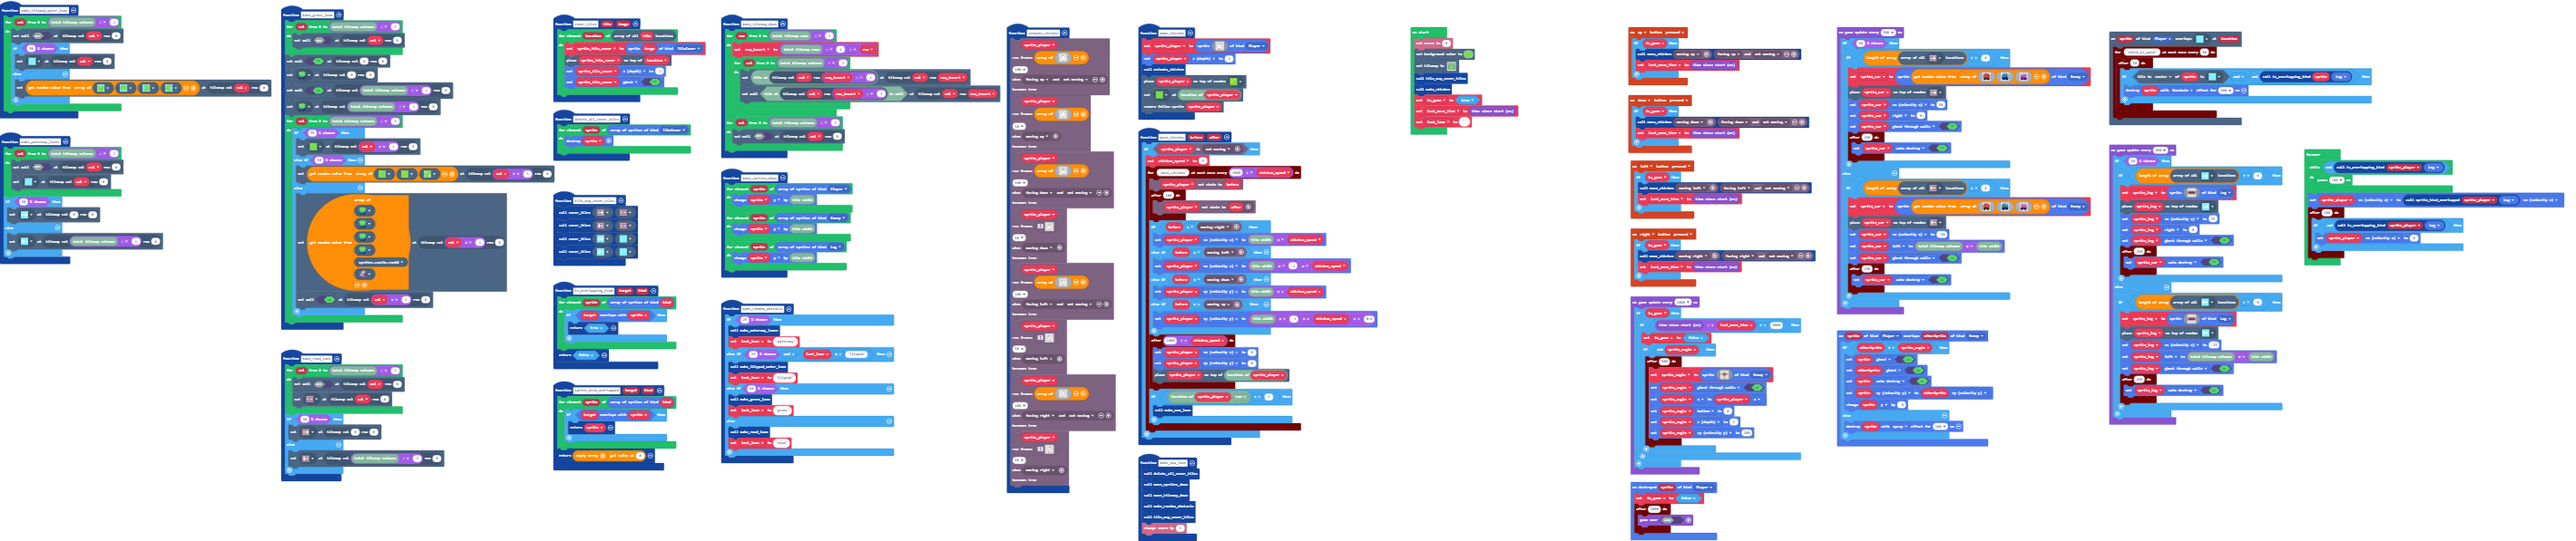
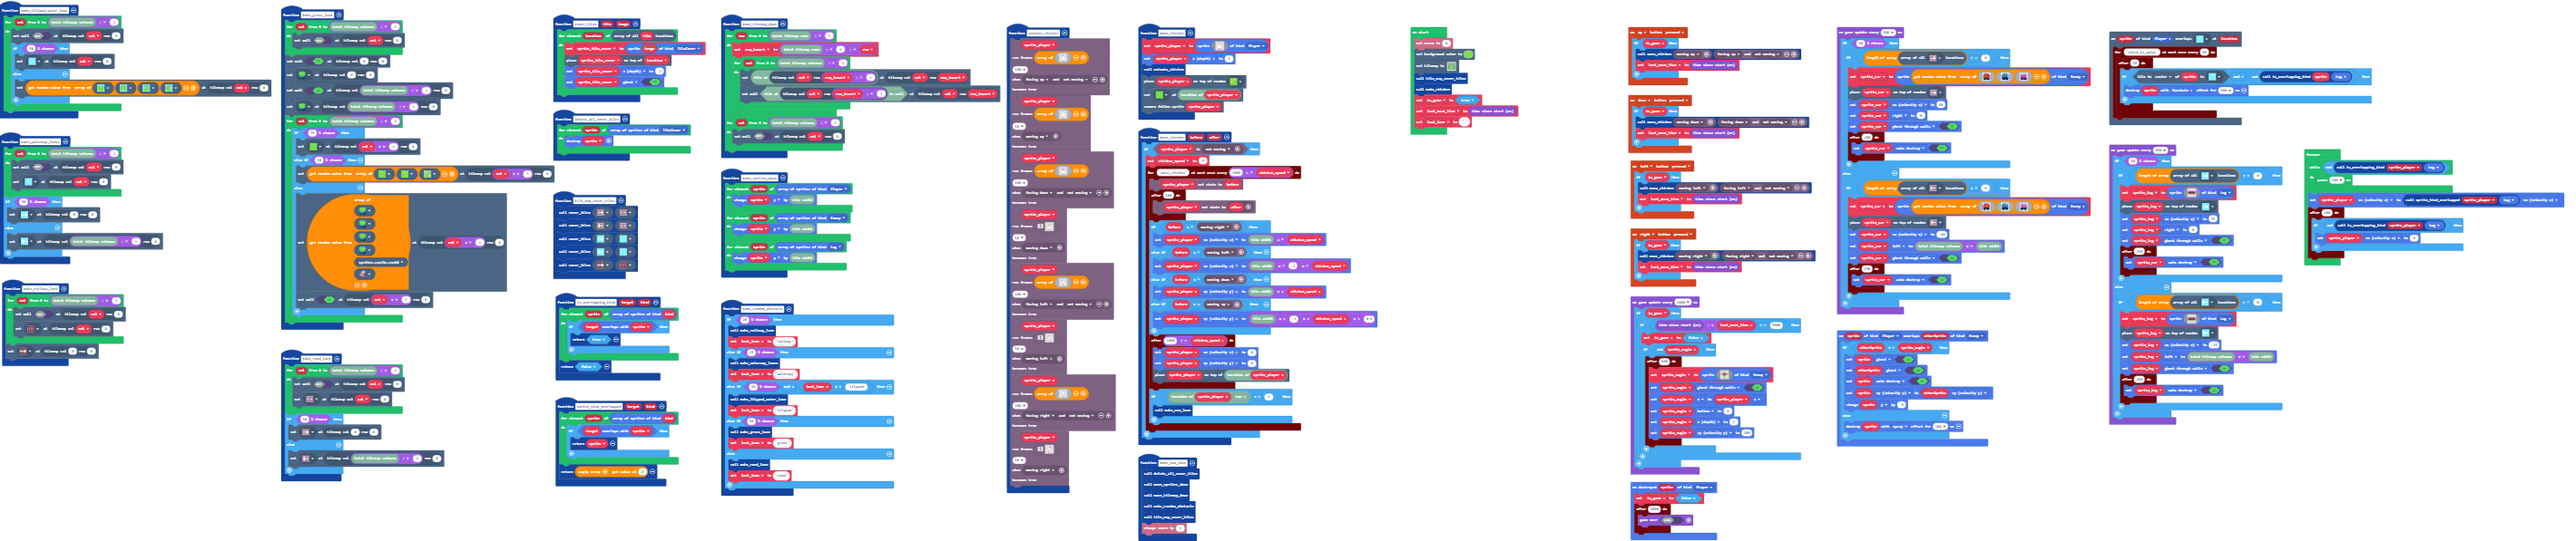
Add non-working railways

Changed region(s): [[0.217, 0.4824, 0.341, 0.9347], [0.0, 0.5126, 0.062, 0.6935]]

diff --git a/tilemap.g.ts b/tilemap.g.ts
@@ -24,6 +24,10 @@ namespace myTiles {
     export const tile10 = image.ofBuffer(hex``);
     //% fixedInstance jres blockIdentity=images._tile
     export const tile11 = image.ofBuffer(hex``);
+    //% fixedInstance jres blockIdentity=images._tile
+    export const tile12 = image.ofBuffer(hex``);
+    //% fixedInstance jres blockIdentity=images._tile
+    export const tile16 = image.ofBuffer(hex``);
 
     helpers._registerFactory("tilemap", function(name: string) {
         switch(helpers.stringTrim(name)) {
@@ -57,7 +61,7 @@ namespace myTiles {
 2 2 . . . . . . 2 2 
 2 2 . . . . . . 2 2 
 2 2 2 2 2 2 2 2 2 2 
-`, [myTiles.transparency16,myTiles.tile1,sprites.builtin.forestTiles0,sprites.castle.tileGrass1,sprites.castle.tileGrass3,sprites.castle.tileGrass2,sprites.vehicle.roadHorizontal,myTiles.tile2,myTiles.tile3,myTiles.tile4,sprites.castle.rock1,myTiles.tile10,myTiles.tile11], TileScale.Sixteen);
+`, [myTiles.transparency16,myTiles.tile1,sprites.builtin.forestTiles0,sprites.castle.tileGrass1,sprites.castle.tileGrass3,sprites.castle.tileGrass2,sprites.vehicle.roadHorizontal,myTiles.tile2,myTiles.tile3,myTiles.tile4,sprites.castle.rock1], TileScale.Sixteen);
         }
         return null;
     })
@@ -87,6 +91,10 @@ namespace myTiles {
             case "tile10":return tile10;
             case "water_left":
             case "tile11":return tile11;
+            case "railway":
+            case "tile12":return tile12;
+            case "railway_right":
+            case "tile16":return tile16;
         }
         return null;
     })

diff --git a/main.ts b/main.ts
@@ -19,7 +19,10 @@ controller.up.onEvent(ControllerButtonEvent.Pressed, function () {
     }
 })
 function make_random_obstacle () {
-    if (Math.percentChance(25)) {
+    if (Math.percentChance(20)) {
+        make_railway_lane()
+        last_lane = "railway"
+    } else if (Math.percentChance(25)) {
         make_waterway_lanes()
         last_lane = "waterway"
     } else if (Math.percentChance(33) && last_lane != "lilypad") {
@@ -223,6 +226,7 @@ function tile_map_cover_tiles () {
     cover_tiles(assets.tile`road_left`, sprites.vehicle.roadHorizontal)
     cover_tiles(assets.tile`water_right`, assets.tile`water`)
     cover_tiles(assets.tile`water_left`, assets.tile`water`)
+    cover_tiles(assets.tile`railway_right`, assets.tile`railway`)
 }
 function is_overlapping_kind (target: Sprite, kind: number) {
     for (let sprite of sprites.allOfKind(kind)) {
@@ -231,6 +235,13 @@ function is_overlapping_kind (target: Sprite, kind: number) {
         }
     }
     return false
+}
+function make_railway_lane () {
+    for (let col = 0; col <= tiles.tilemapColumns() - 1; col++) {
+        tiles.setWallAt(tiles.getTileLocation(col, 0), false)
+        tiles.setTileAt(tiles.getTileLocation(col, 0), assets.tile`railway`)
+    }
+    tiles.setTileAt(tiles.getTileLocation(0, 0), assets.tile`railway_right`)
 }
 sprites.onDestroyed(SpriteKind.Player, function (sprite) {
     in_game = false
